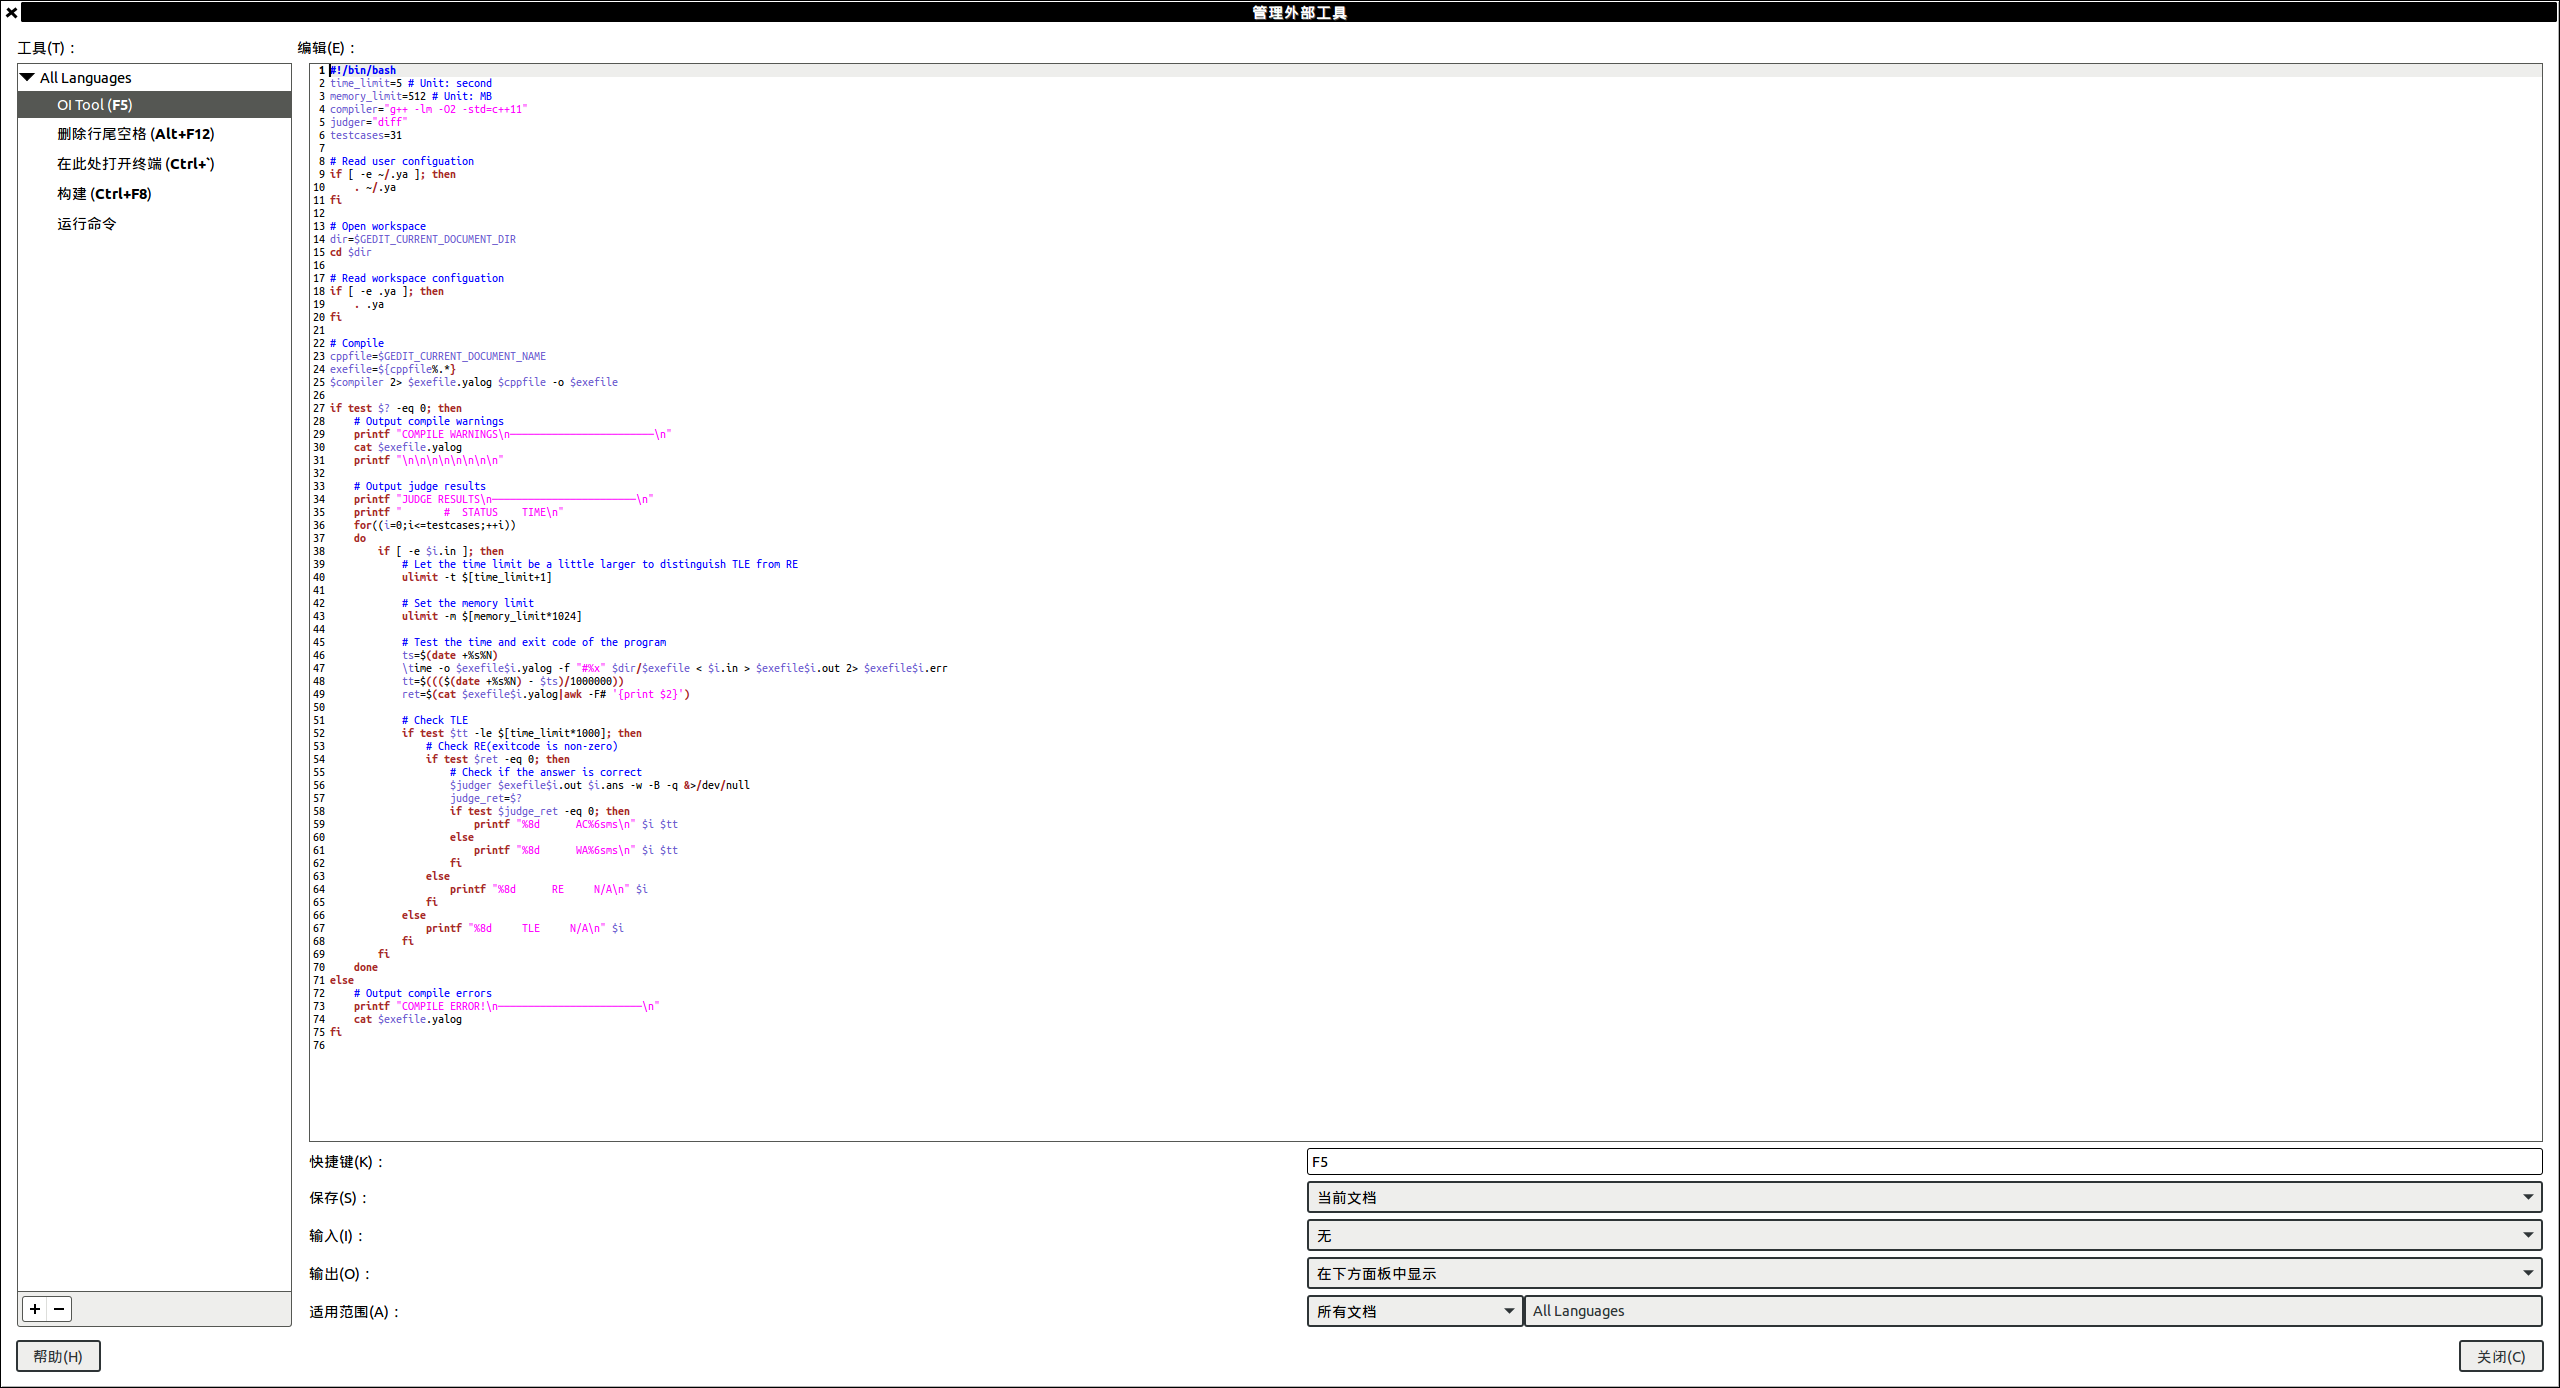
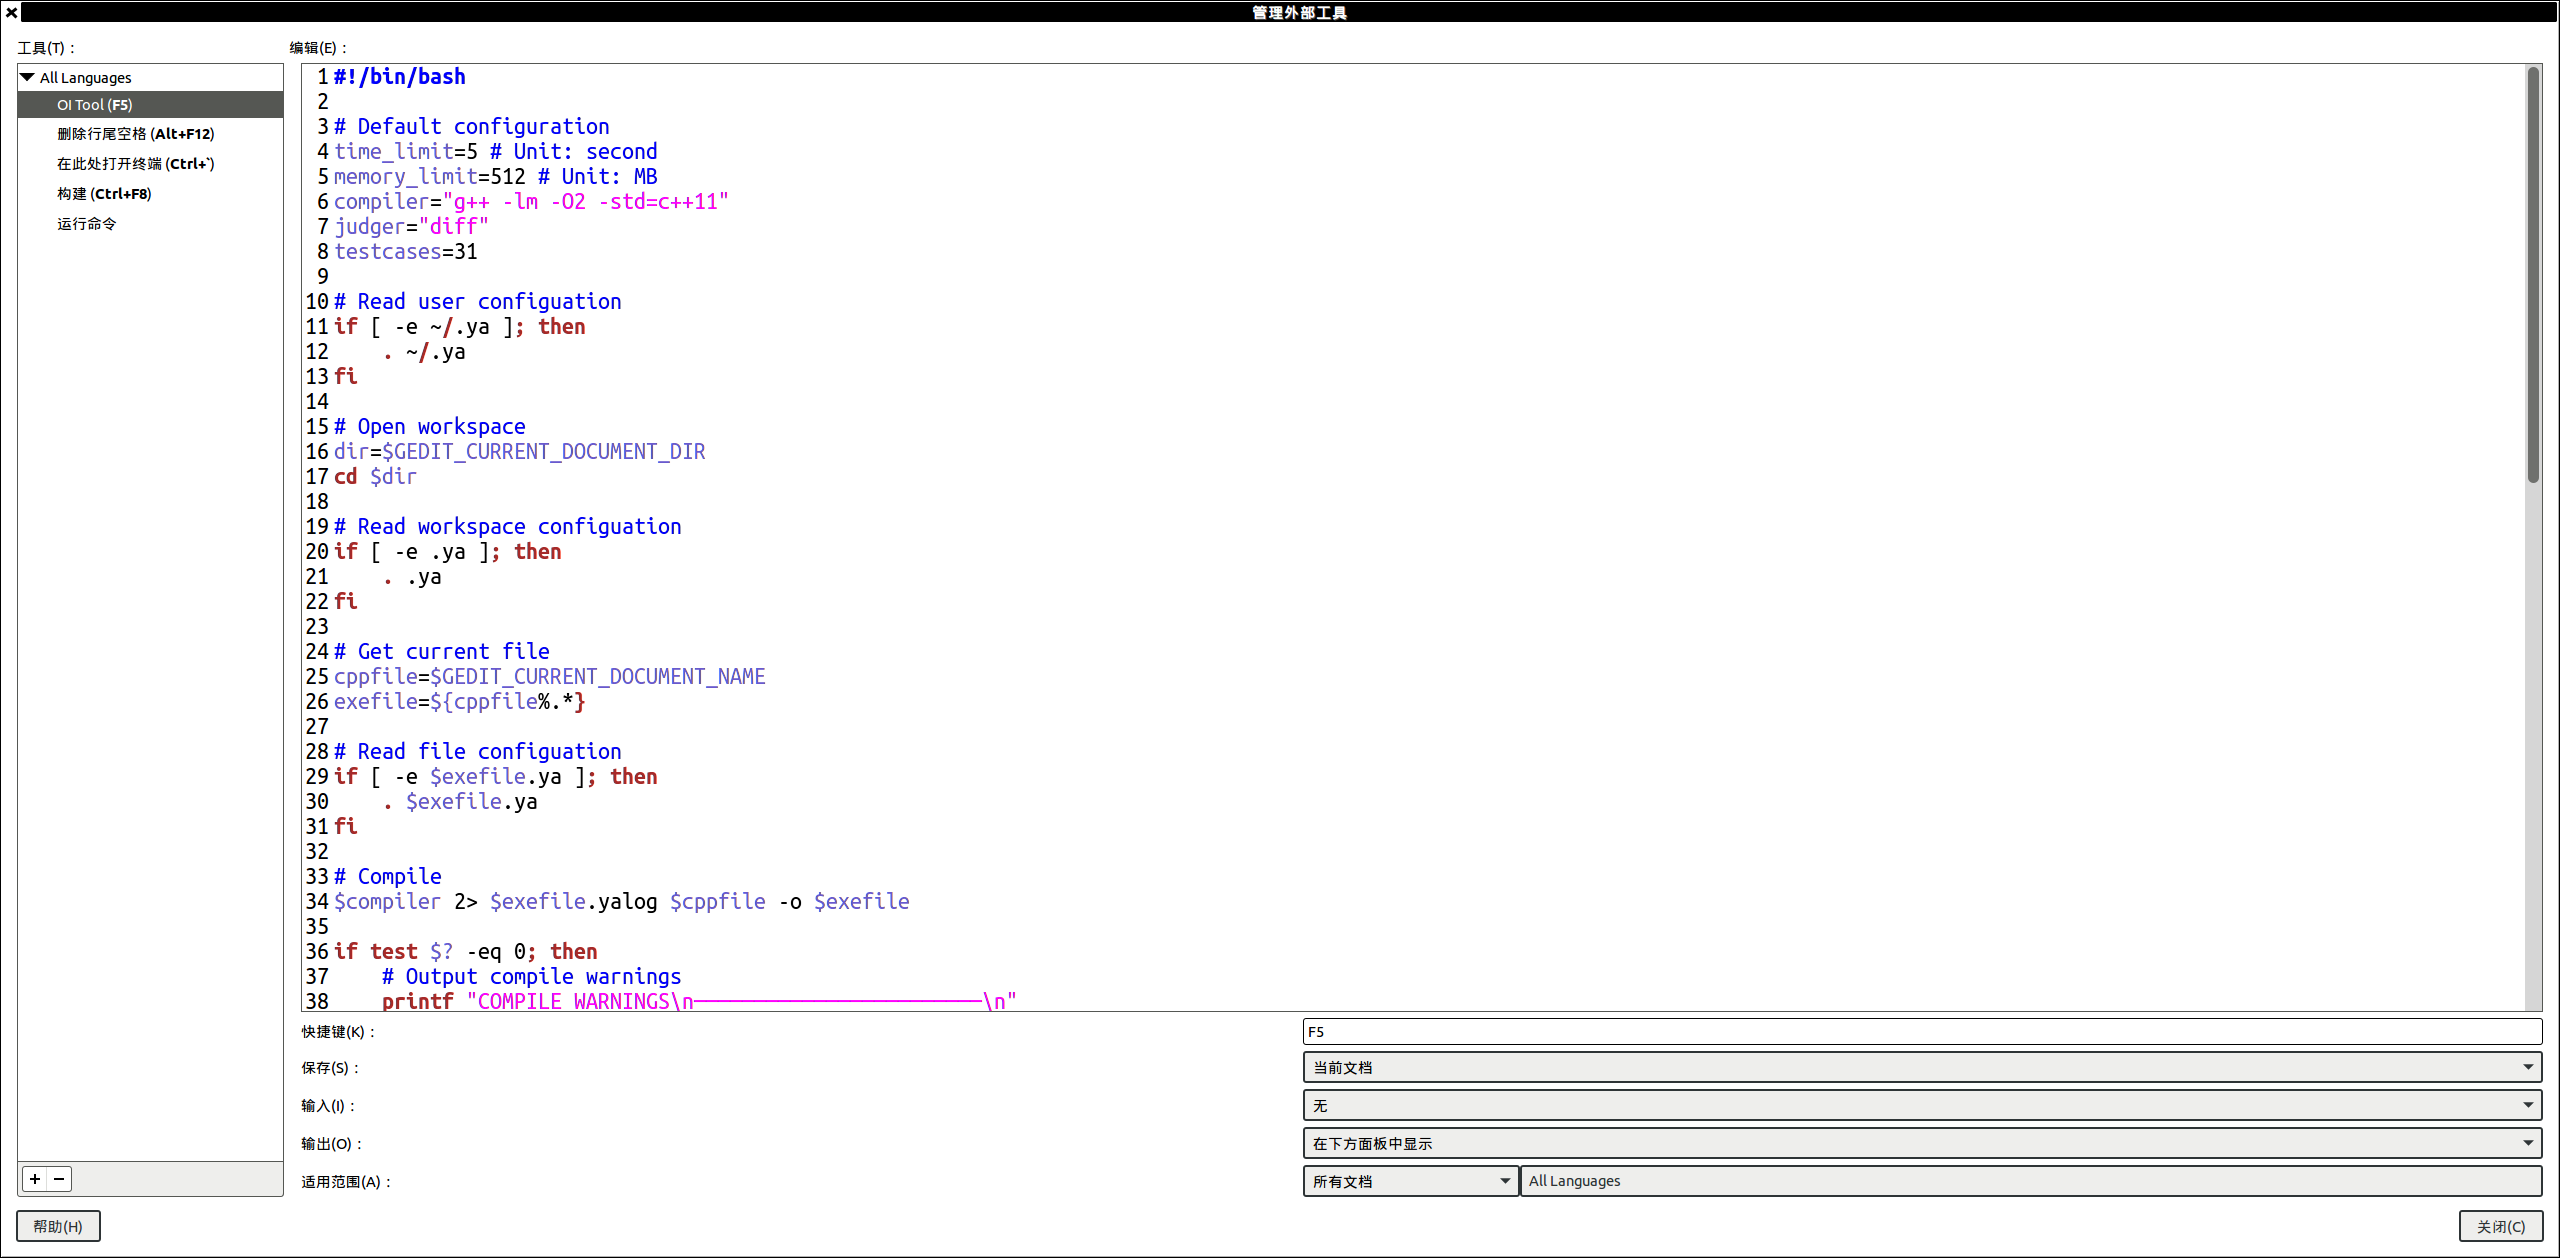
add file configuration

Changed region(s): [[0.0, 0.0, 0.9688, 0.9921], [0.5, 0.031, 1.0, 0.9921], [0.3125, 0.713, 0.3438, 0.744]]

diff --git a/readme.md b/readme.md
@@ -1,6 +1,6 @@
 <p align="center"><img src="oitool.png"></p>
 
-<h1 align="center">OI Tool(v1.0)</h1>
+<h1 align="center">OI Tool</h1>
 
 <p align="center">A gedit plugin which can test OI codes.</p>
 
@@ -13,24 +13,24 @@
 
 ## Installation
 
-1. Open Gedit and enable the plugin "external tools".
+1. Open Gedit and enable the plugin "external tools" in "Preferences".
    
    ![0.png](0.png)
-2. Manage "external tools".
+2. Click "Manage External Tools" in "Tool".
    
    ![1.png](1.png)
-3. Insert the code from `oi.sh` and config the new tool as shown in the picture.
+3. Create a new tool, insert the code from `oi.sh` and config the new tool as shown in the picture.
    
    ![2.png](2.png)
 
 ## Usage
 
 1. Open your code. Let its name be `<name>.<ext>`.
-2. Put your testcases in `<i>.in` and `<i>.ans`. (`<i>` is the ID of the testcases, ranging in [0,testcases])
+2. Put your testcases in `<i>.in` and `<i>.ans`. (`<i>` is the ID of the testcases, ranging in [0,`<testcases>`])
 3. Press `F5`.
 4. You can see the results in the panel below.
    Judge results are: `AC`(Answer correct), `WA`(Wrong answer), `TLE`(Time limit exceeded) and `RE`(Runtime error).
-   Your `stdout` and `stderr` are directed to `<name><i>.out` and `<name><i>.err` respectively.
+   Your `stdout` and `stderr` are redirected to `<name><i>.out` and `<name><i>.err` respectively.
 
 ## Configuration
 
@@ -42,7 +42,11 @@ The configuration file should be named `.ya` in your user folder.
 
 The configuration file should be named `.ya` in the workspace folder. 
 
-### Settings format
+### File configuration
+
+The configuration file should be named `<name>.ya` in the workspace folder. 
+
+### Configuration format
 
 The configuration file should be like:
 
@@ -59,4 +63,4 @@ judger="diff" # Special judge of your code.
 testcases=31 # Maximum ID of testcases
 ```
 
-If there is no configuration file, then the default setting will be used.
+If there is no configuration file found, then the default setting will be used.
